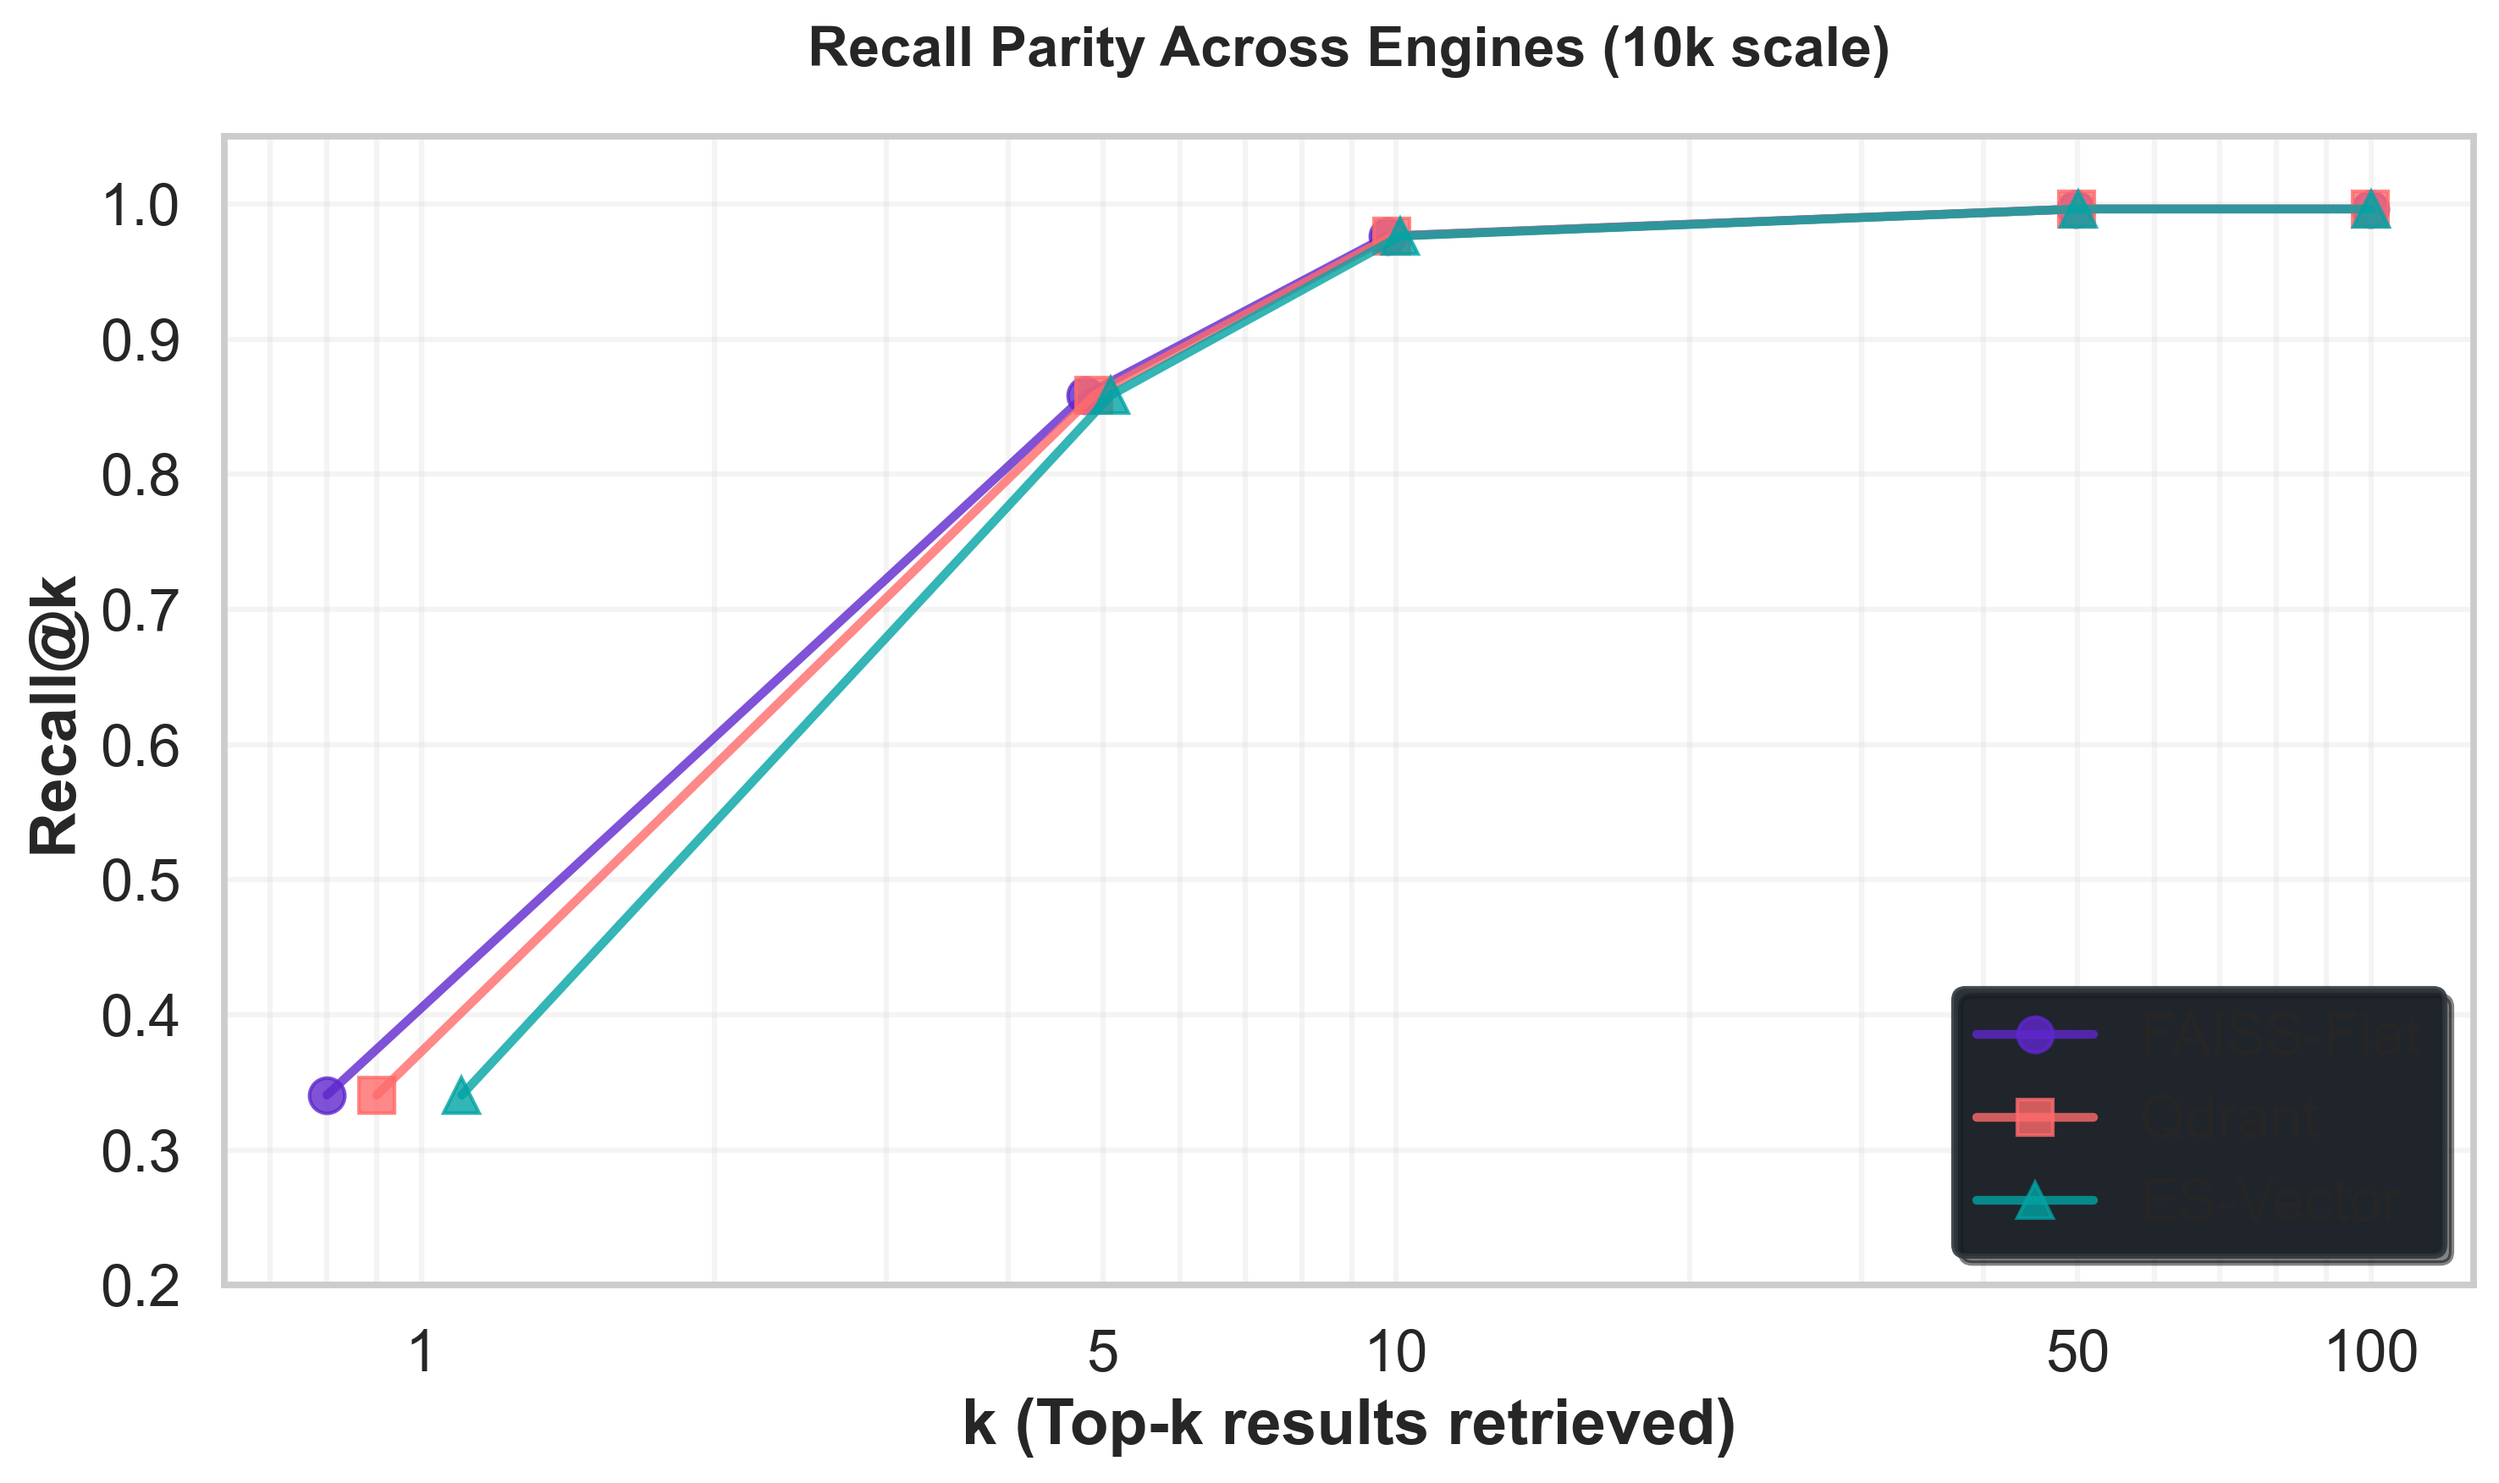
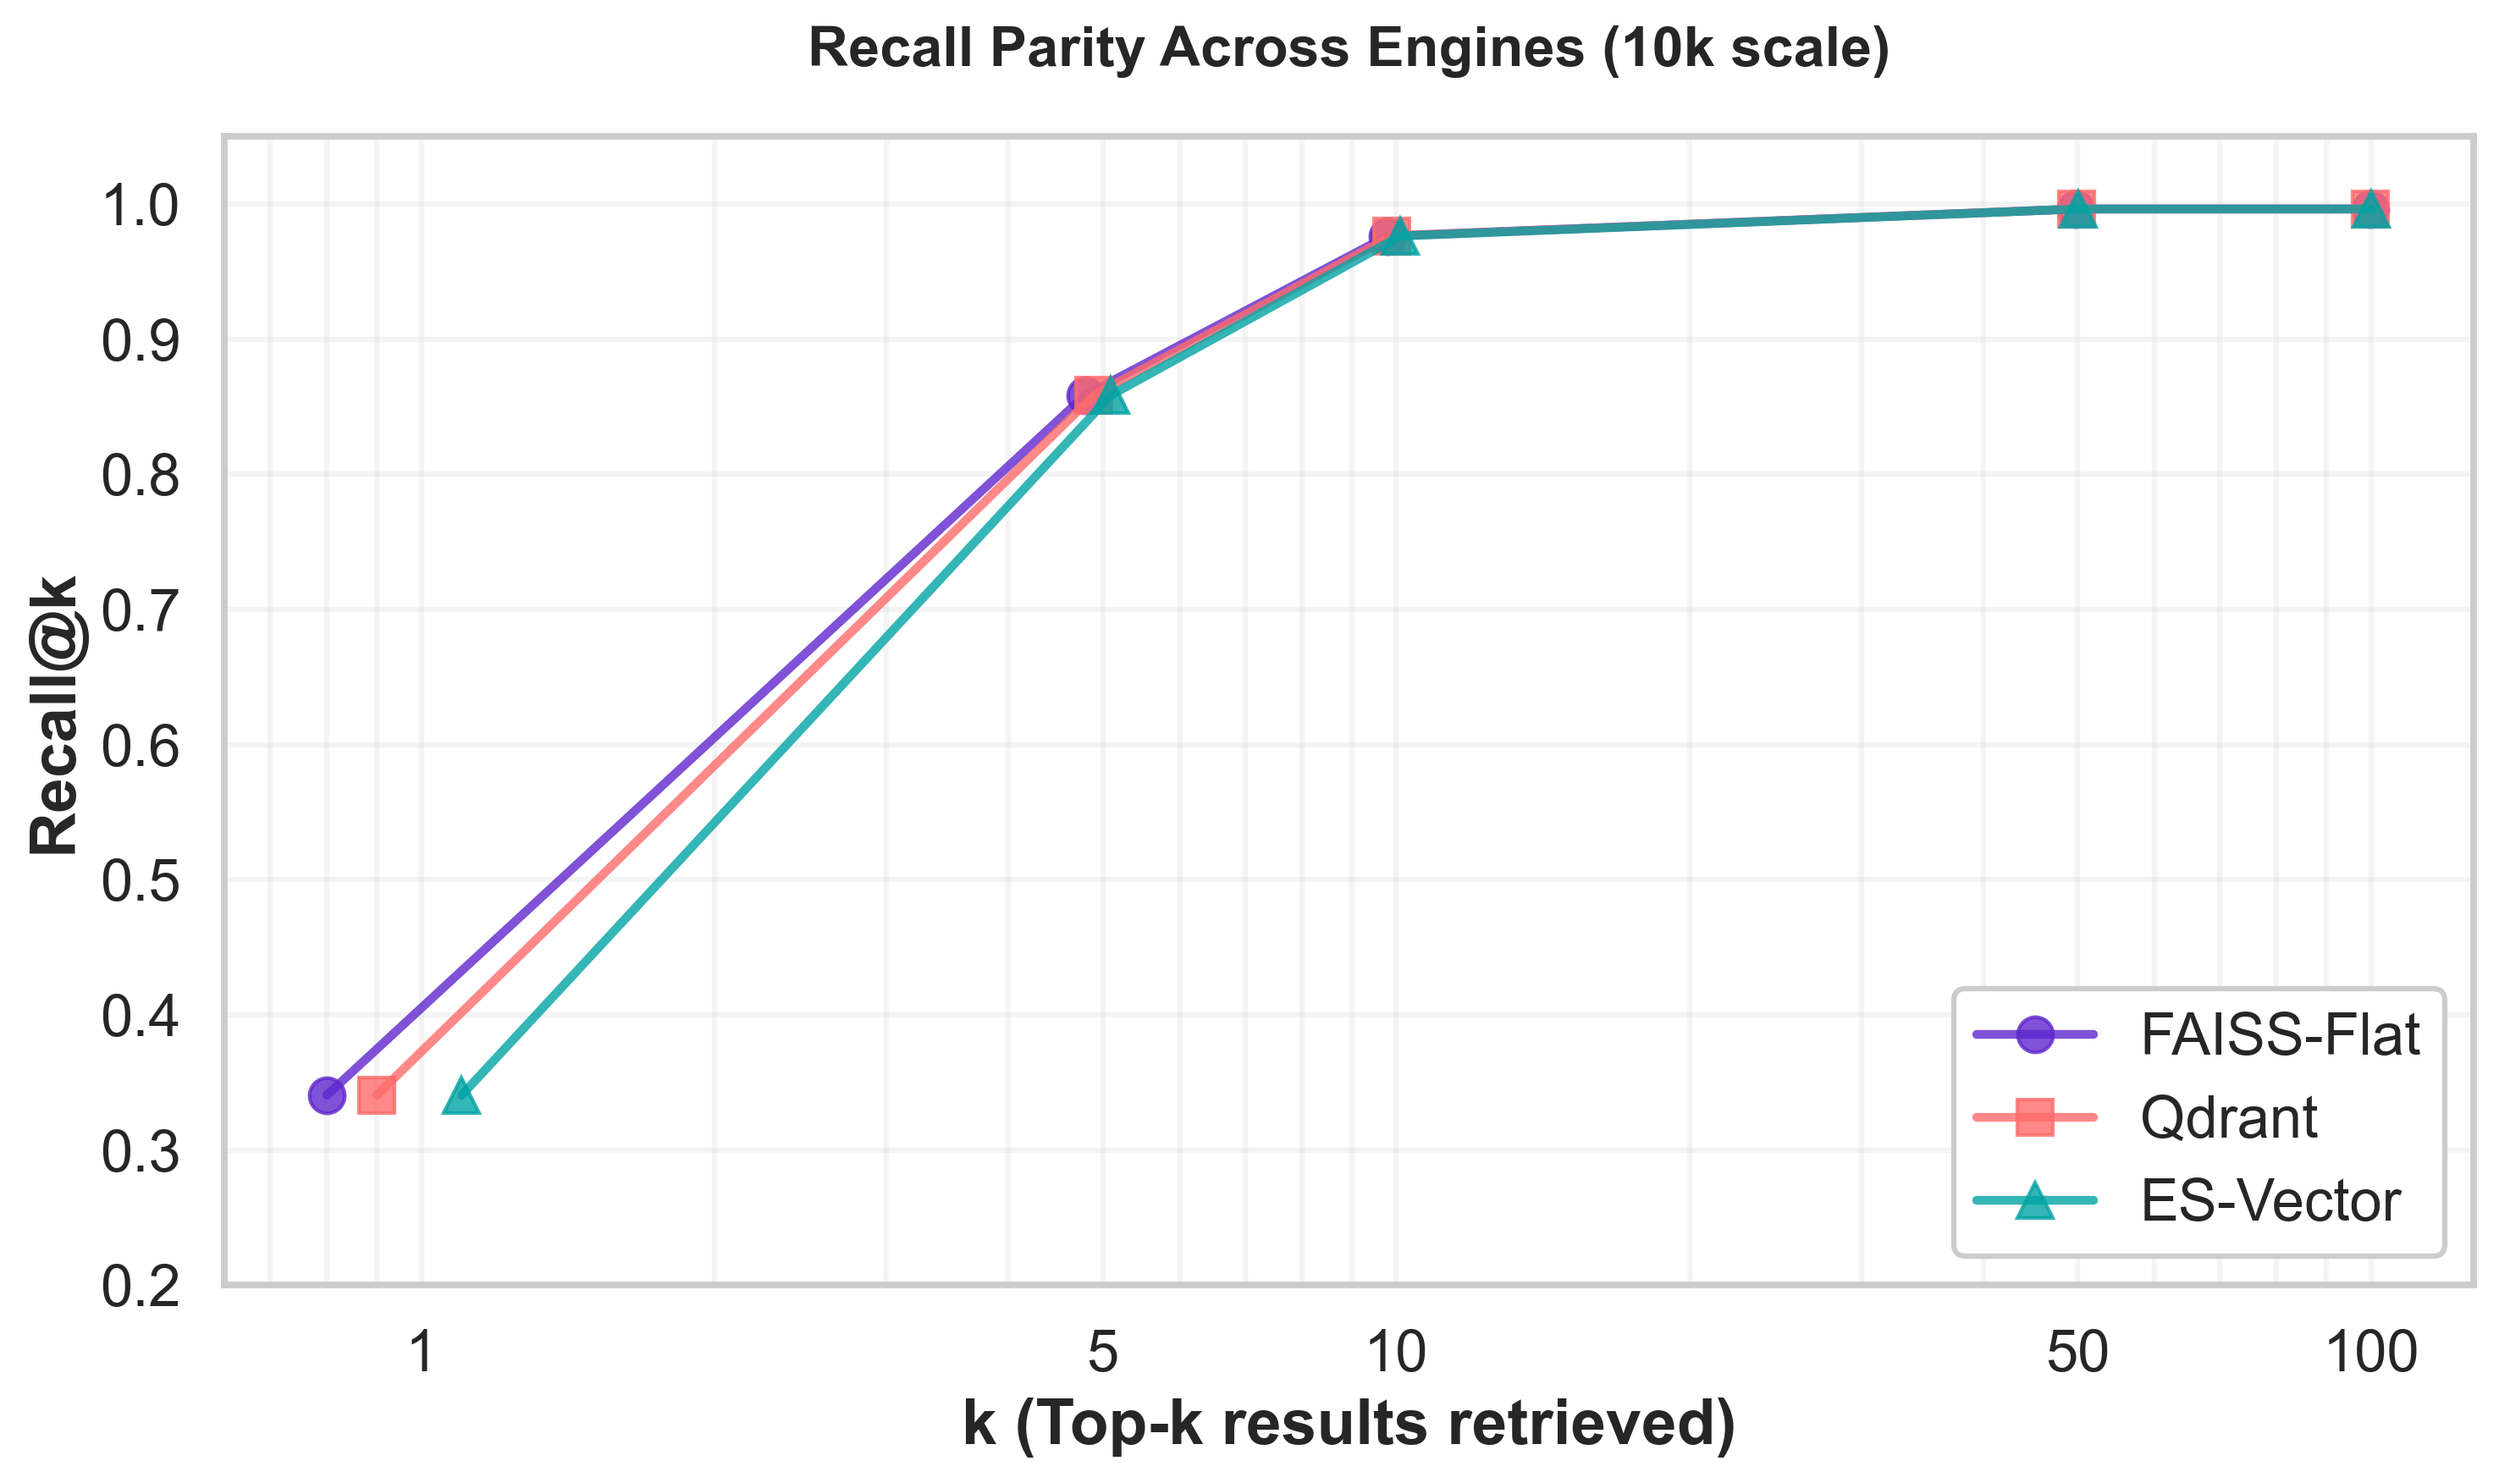
Fix chart legend transparency by using solid bounding boxes

Changed region(s): [[0.7791, 0.6473, 0.9973, 0.863]]

diff --git a/src/visualize.py b/src/visualize.py
@@ -158,7 +158,7 @@ def plot_latency_vs_scale():
     ax.set_xlabel("Dataset Size (passages)")
     ax.set_ylabel("P50 Latency (ms)")
     ax.set_title("Query Latency vs Dataset Scale")
-    ax.legend(loc="upper left", frameon=True, facecolor="#161b22", edgecolor="#30363d", framealpha=0.9)
+    ax.legend(loc="upper left", frameon=True, facecolor="#161b22", edgecolor="#30363d", framealpha=1.0)
     ax.grid(True, linestyle="--")
     ax.xaxis.set_major_formatter(ticker.FuncFormatter(lambda x, _: f"{int(x/1000)}k"))
 
@@ -197,7 +197,7 @@ def plot_pareto_frontier(advanced_data: dict):
     plt.title("HNSW Pareto Frontier at 100k Scale\nLatency vs Recall Tradeoff", pad=20, fontweight="bold")
     plt.xlabel("P50 Latency (ms)", fontweight="bold")
     plt.ylabel("Recall@10", fontweight="bold")
-    plt.legend(loc="lower left", frameon=True, shadow=True, fancybox=True, framealpha=0.9)
+    plt.legend(loc="lower left", frameon=True, facecolor="white", edgecolor="#cccccc", framealpha=1.0)
     plt.tight_layout()
     save_chart(fig, "pareto_frontier_qdrant")
 
@@ -234,7 +234,7 @@ def plot_recall_at_k(advanced_data: dict):
     plt.xticks(k_values, labels=[str(k) for k in k_values])
     plt.ylim(0.2, 1.05)
     plt.grid(True, which="both", ls="-", alpha=0.2)
-    plt.legend(loc="lower right", frameon=True, shadow=True, fancybox=True, framealpha=0.9)
+    plt.legend(loc="lower right", frameon=True, facecolor="white", edgecolor="#cccccc", framealpha=1.0)
     
     plt.tight_layout()
     save_chart(fig, "recall_at_k_curves")
@@ -273,7 +273,7 @@ def plot_concurrency(advanced_data: dict):
     plt.ylim(0, max(qps) * 1.2)
     
     plt.axhline(y=max(qps), color='r', linestyle='--', alpha=0.3, label=f"Saturation: ~{int(max(qps))} QPS")
-    plt.legend(loc="lower right", frameon=True, framealpha=0.9, shadow=True)
+    plt.legend(loc="lower right", frameon=True, facecolor="white", edgecolor="#cccccc", framealpha=1.0)
     
     plt.tight_layout()
     save_chart(fig, "concurrency_scaling")
